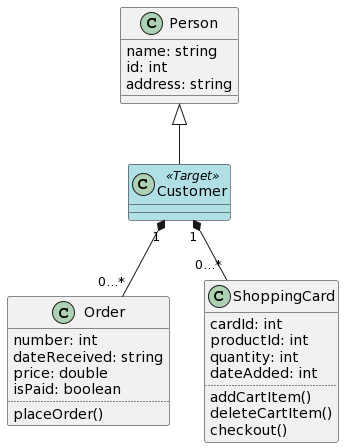
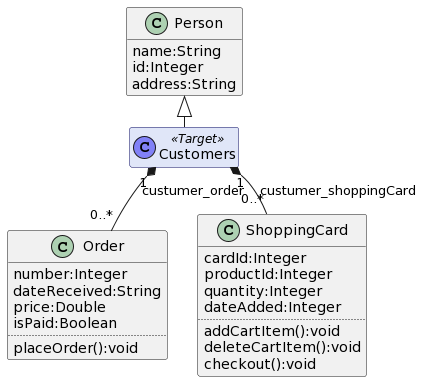
update example image and color mark

diff --git a/frontend/src/styles/example.css b/frontend/src/styles/example.css
@@ -54,7 +54,7 @@
 }
 
 .markTarget {
-  background-color: rgb(90, 215, 224);
+  background-color: rgb(166, 178, 237);
   color: black;
   opacity: 0.8;
 }
